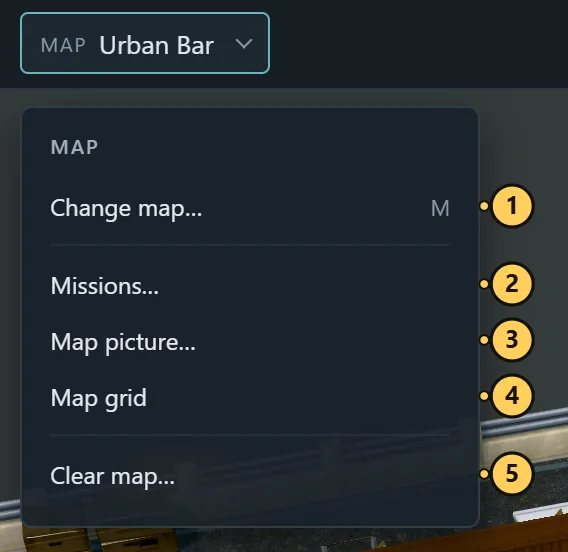
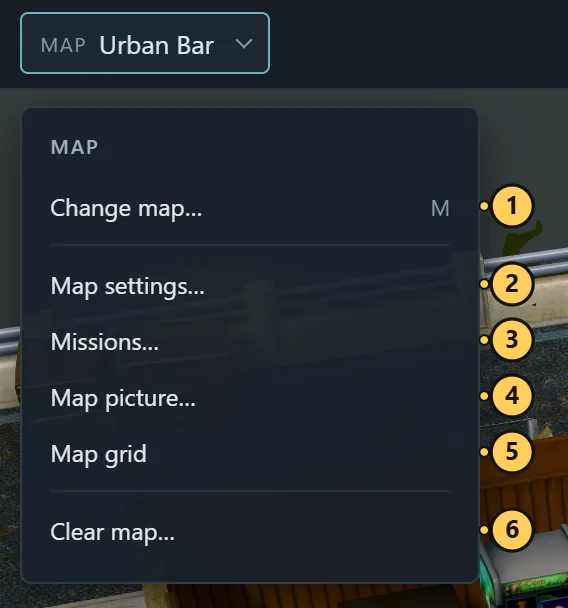
The user guide: a Map settings section, the Map menu's sixth item and View options' Sun, moon and sky… opener (both pictures retaken), and the Clear map window's tick to keep the map's triggers; take_shots.py marks #skyOpen where #skyToggle was

diff --git a/tools/release/guide/guide.html b/tools/release/guide/guide.html
@@ -154,6 +154,7 @@ footer { margin-top: 70px; padding-top: 18px; border-top: 1px solid var(--line);
           <li><a href="#clearmap">Clear map and landing zones</a></li>
           <li><a href="#spawns">Spawn points</a></li>
           <li><a href="#missions">Missions</a></li>
+          <li><a href="#map-settings">Map settings</a></li>
           <li><a href="#map-picture">Map picture</a></li>
         </ol>
       </li>
@@ -609,8 +610,8 @@ footer { margin-top: 70px; padding-top: 18px; border-top: 1px solid var(--line);
   <tr><th>Menu</th><th>Opened by</th><th>What it holds</th></tr>
   <tr><td><a href="#project">Project</a></td><td>The Project button</td><td>Save, Save as…, Open…, Close project, the
     recent projects, and Manage projects….</td></tr>
-  <tr><td><a href="#map-menu">Map</a></td><td>The Map button</td><td>Change map…, Missions…, Map picture…, Map grid,
-    and Clear map….</td></tr>
+  <tr><td><a href="#map-menu">Map</a></td><td>The Map button</td><td>Change map…, Map settings…, Missions…, Map
+    picture…, Map grid, and Clear map….</td></tr>
   <tr><td><a href="#game-menu">Game</a></td><td>The arrow joined to Play</td><td>Test squad setup…, Game maps…, and
     the Installs.</td></tr>
   <tr><td><a href="#settings">Settings</a></td><td>The gear</td><td>Game install and checks…, and Cache
@@ -618,18 +619,20 @@ footer { margin-top: 70px; padding-top: 18px; border-top: 1px solid var(--line);
 </table>
 <h4 id="map-menu">The Map menu</h4>
 <div class="split">
-  <figure><img src="shots/map-menu.webp" width="284" height="276" alt="The Map menu, its five items numbered"></figure>
+  <figure><img src="shots/map-menu.webp" width="284" height="304" alt="The Map menu, its six items numbered"></figure>
   <ol class="legend">
     <li data-n="1"><b>Change map…</b> (<kbd>M</kbd>) opens the <a href="#maps">map browser</a>.</li>
-    <li data-n="2"><b>Missions…</b> chooses the missions the project is for. <a href="#missions">More</a></li>
-    <li data-n="3"><b>Map picture…</b> sets the picture the game shows for the map on its mission screens.
+    <li data-n="2"><b>Map settings…</b> lists the sun, moon and sky light and sets the map's background sound.
+      <a href="#map-settings">More</a></li>
+    <li data-n="3"><b>Missions…</b> chooses the missions the project is for. <a href="#missions">More</a></li>
+    <li data-n="4"><b>Map picture…</b> sets the picture the game shows for the map on its mission screens.
       <a href="#map-picture">More</a></li>
-    <li data-n="4"><b>Map grid</b> shows the play area's handles, as the tool strip's button does.
+    <li data-n="5"><b>Map grid</b> shows the play area's handles, as the tool strip's button does.
       <a href="#mapgrid">More</a></li>
-    <li data-n="5"><b>Clear map…</b> takes every piece off the map. <a href="#clearmap">More</a></li>
+    <li data-n="6"><b>Clear map…</b> takes every piece off the map. <a href="#clearmap">More</a></li>
   </ol>
 </div>
-<p>Items 2 to 5 are the map's own. In the prefab builder, where there is only the map to change, the button opens the
+<p>Items 2 to 6 are the map's own. In the prefab builder, where there is only the map to change, the button opens the
   map browser at once.</p>
 
 <h3 id="tools">Tool strip</h3>
@@ -765,7 +768,7 @@ footer { margin-top: 70px; padding-top: 18px; border-top: 1px solid var(--line);
 
 <h3 id="viewoptions">View options</h3>
 <div class="split">
-  <figure><img src="shots/view-options.webp" width="332" height="633" alt="The View options menu, its sixteen items numbered"></figure>
+  <figure><img src="shots/view-options.webp" width="332" height="665" alt="The View options menu, its sixteen items numbered"></figure>
   <ol class="legend">
     <li data-n="1"><b>Lighting:</b> <b class="ui">Neutral</b> is plain, even light, best for editing. <b class="ui">Map</b>
       uses the map's own lights, as edited; <b class="ui">No area</b> is the same without the glow of lit surfaces. Both
@@ -782,7 +785,8 @@ footer { margin-top: 70px; padding-top: 18px; border-top: 1px solid var(--line);
     <li data-n="7"><b>Area lights:</b> also show the lights that stand for glowing surfaces. View only.</li>
     <li data-n="8"><b>Outline the pieces a light reaches:</b> for the selected light, in teal the pieces it is baked
       into, in orange the ones it reaches after your change.</li>
-    <li data-n="9"><b>Sun, moon and sky:</b> lists the lights that have no place. View only.</li>
+    <li data-n="9"><b>Sun, moon and sky…</b> opens <a href="#map-settings">Map settings</a>, which lists the lights
+      that have no place.</li>
     <li data-n="10"><b>Play area</b> (<kbd>B</kbd>): faint amber walls round the area the game plays on, its level volume:
       units can't leave it.</li>
     <li data-n="11"><b>Tile grid</b> around the selection.</li>
@@ -2119,6 +2123,12 @@ footer { margin-top: 70px; padding-top: 18px; border-top: 1px solid var(--line);
     too. Here
     the play area is the map's own, and the new grid where it reaches further, so pieces the new grid brings into play
     still go. So does a piece across the edge. The window counts what stays. The tick is remembered.</li>
+  <li><b class="ui">Keep the map's triggers and scripts</b> leaves the map's triggers, which the editor doesn't show:
+    the touch volumes that set animals going or play a narration (a crashed UFO's "entering the ship"), the water
+    volumes that make units wade, and the spots that speak when a soldier sees them. Without it the Build takes them
+    out and switches off what they would start, so nothing of the old map acts on the new one. The window counts them;
+    on a map without any the tick is not shown. A mission's own streamed objects keep theirs. The tick is remembered.
+    The map's background sound stays either way: change it in <a href="#map-settings">Map settings</a>.</li>
   <li><b>Effects and ambient sounds go with the clear</b>, except the Skyranger's, which stay with it, and the ones
     outside that the tick keeps. One you moved yourself in the <a href="#effects">Effects view</a> stays, and so do
     your copies.</li>
@@ -2311,6 +2321,20 @@ footer { margin-top: 70px; padding-top: 18px; border-top: 1px solid var(--line);
     <li data-n="3"><b>OK</b> needs one ticked; the change is one undo step.</li>
   </ol>
 </div>
+<h3 id="map-settings">Map settings</h3>
+<p><b class="ui">Map settings…</b> in the <a href="#map-menu">Map menu</a> (or <b class="ui">Sun, moon and sky…</b> in
+  <a href="#viewoptions">View options</a>) opens a window of what the map has everywhere and at no place.</p>
+<ul>
+  <li><b>Sun, moon and sky</b> lists the map's lights that have no place, with their brightness. View only.</li>
+  <li><b>Background sound</b> is the sound the map plays everywhere from the start: wind and traffic on the Bar,
+    birds in a forest, crickets at night. Choose the map's own, another of the game's 26 sound beds (the Build brings
+    it from the map that plays it), or <b class="ui">None</b>. <b class="ui">Play</b> plays the choice here, looping,
+    until you press it again or close the window. The <b class="ui">Volume</b> bar under it sets how loud it is in the
+    game, 100% being the sound's own.</li>
+  <li><b>Each change is one undo step</b> and is saved with the project; the header counts it. A map that starts no
+    background sound (the alien bases, the battleships, the Temple Ship and a few others) has none to change.</li>
+</ul>
+
 <h3 id="map-picture">Map picture</h3>
 <p><b class="ui">Map picture…</b> in the <a href="#map-menu">Map menu</a> gives the project a picture of its own for
   the game's mission screens. Long War Rebalance 3 shows a map's own picture; plain Enemy Within and earlier Long War

diff --git a/tools/release/guide/take_shots.py b/tools/release/guide/take_shots.py
@@ -296,7 +296,8 @@ class Shots:
         self.close_pops()
         page.locator('#mapButton').click()
         page.wait_for_timeout(300)
-        rows = [(1, '#mapChange'), (2, '#projectMissions'), (3, '#projectPicture'), (4, '#projectSize'), (5, '#projectClear')]
+        rows = [(1, '#mapChange'), (2, '#mapSettingsOpen'), (3, '#projectMissions'), (4, '#projectPicture'), (5, '#projectSize'),
+                (6, '#projectClear')]
         self.shot('map-menu', self.panel_rows('#mapMenu', rows, side='right'),
                   clip=self.around('#mapButton', '#mapMenu', pad=(10, 6, 44, 12)))
         self.close_pops()
@@ -759,7 +760,7 @@ class Shots:
         page.locator('#viewButton').click()
         page.wait_for_timeout(400)
         rows = [(1, '#lighting'), (2, '#exposure'), (3, '#flyKeys'), (4, '#moveSpeed'), (5, '#turnSpeed'), (6, '#dragSpeed'),
-                (7, '#areaToggle'), (8, '#reachToggle'), (9, '#skyToggle'), (10, '#playAreaToggle'), (11, '#grid'),
+                (7, '#areaToggle'), (8, '#reachToggle'), (9, '#skyOpen'), (10, '#playAreaToggle'), (11, '#grid'),
                 (12, '#floorTiles'), (13, '#likenessToggle'), (14, '#wire'), (15, '#hideHelpers'), (16, '#statsToggle')]
         hidden = [s for _, s in rows if not page.locator(s).is_visible()]
         if hidden: raise SystemExit('View options lacks %s on %s: the guide numbers them all' % (', '.join(hidden), MAP))

diff --git a/changelog/entries/2026-11-22-guide-map-settings-and-triggers-tick.md b/changelog/entries/2026-11-22-guide-map-settings-and-triggers-tick.md
@@ -1,0 +1,14 @@
+### The user guide: Map settings, the Clear map window's triggers tick, View options' new row
+
+- [guide.html](../../tools/release/guide/guide.html): a Map settings section (the sun, moon and sky listed, the
+  background sound chosen from the map's own, the game's other beds or None, Play, the Volume bar; one undo step
+  each), in the contents; the Map menu's list gains Map settings… (six items now), the menus table too; View options'
+  item 9 is "Sun, moon and sky…", which opens it; the Clear map section explains "Keep the map's triggers and scripts".
+- [take_shots.py](../../tools/release/guide/take_shots.py) marks Map settings… in the Map menu and View options'
+  opener (`#skyOpen`, where `#skyToggle` was: the release suite's guide test found the old id). The pictures
+  map-menu and view-options retaken on a test server and put in [shots/](../../tools/release/guide/shots/), their sizes
+  in the page with them.
+
+Checked: the release suite (the guide test: the marked controls are the page's), the two new pictures looked at.
+
+Known gaps: the Map settings section has no picture of its own.
